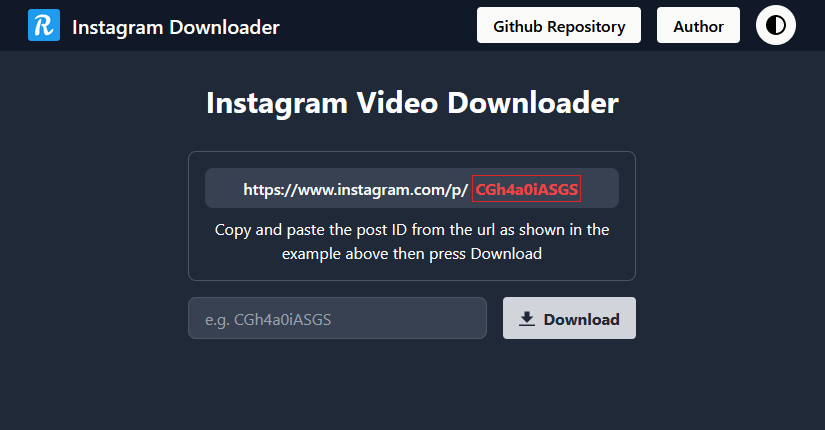
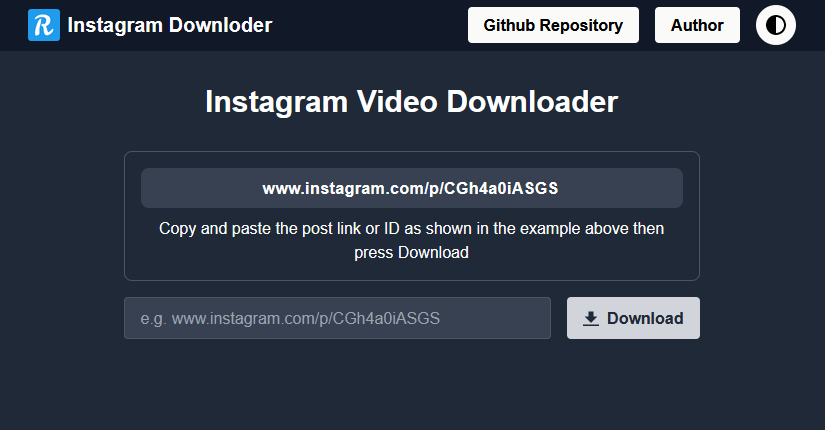
Update Fixed an issue with extracting the ID from the post link Updated README.md Updated the screenshots

diff --git a/src/routes/api.js b/src/routes/api.js
@@ -71,7 +71,8 @@ router.get("/", async (req, res, next) => {
   }
 
   if (postID.includes("instagram.com")) {
-    const tempID = postID.split("/").at(4);
+    const idIndex = postID.includes("https://") ? 4 : 2;
+    const tempID = postID.split("/").at(idIndex);
     if (!tempID) {
       const error = new Error("Could not find post ID in the url");
       error.statusCode = 400;

diff --git a/README.md b/README.md
@@ -4,7 +4,7 @@ Simple Website/API for downloading instagram videos
 
 ## Description
 
-A website that lets you download Instagram videos easily and quickly. You can paste the ID of any public Instagram post and get the video file in MP4 format. there is also an API that you can use to integrate this functionality into your own applications. The API is simple, and it returns JSON responses with the video URL and other metadata.
+A website that lets you download Instagram videos easily and quickly. You can paste the link or ID of any public Instagram post and get the video file in MP4 format. there is also an API that you can use to integrate this functionality into your own applications. The API is simple, and it returns JSON responses with the video URL and other metadata.
 
 **You can preview and try the website live in my replit here : [Instagram Videos Downloader](https://insta-vids-downloder.riadazzoun.repl.co)**
 
@@ -49,13 +49,13 @@ npm run build
 - Starting the server
 
 ```bash
-# Developement
+# Developement (requires build)
 npm start
 
-# Watch mode
+# Watch mode (Doesn't require to run the build command)
 npm run dev
 
-# Production
+# Production (requires build and 'pm2' to be installed)
 npm run prod
 ```
 
@@ -70,17 +70,22 @@ npm run css
 
 The API is pretty simple and straightforward.
 
-There is one endpoint `/api` that takes the post id as a param `id` _(required)_.
+There is one endpoint `/api` that takes the post link or ID as a param `id` _(required)_.
 
 ### Video request
 
 `GET /api?id={POST_ID}`
 
 ```bash
+# Post ID
 curl -i "http://localhost:3000/api?id=CGh4a0iASGS"
+
+# Post link
+curl -i "http://localhost:3000/api?id=www.instagram.com/p/CGh4a0iASGS"
 ```
 
 ```bash
+# JSON Response
 {
     "id": "CGh4a0iASGS",
     "username": "riad-azz",
